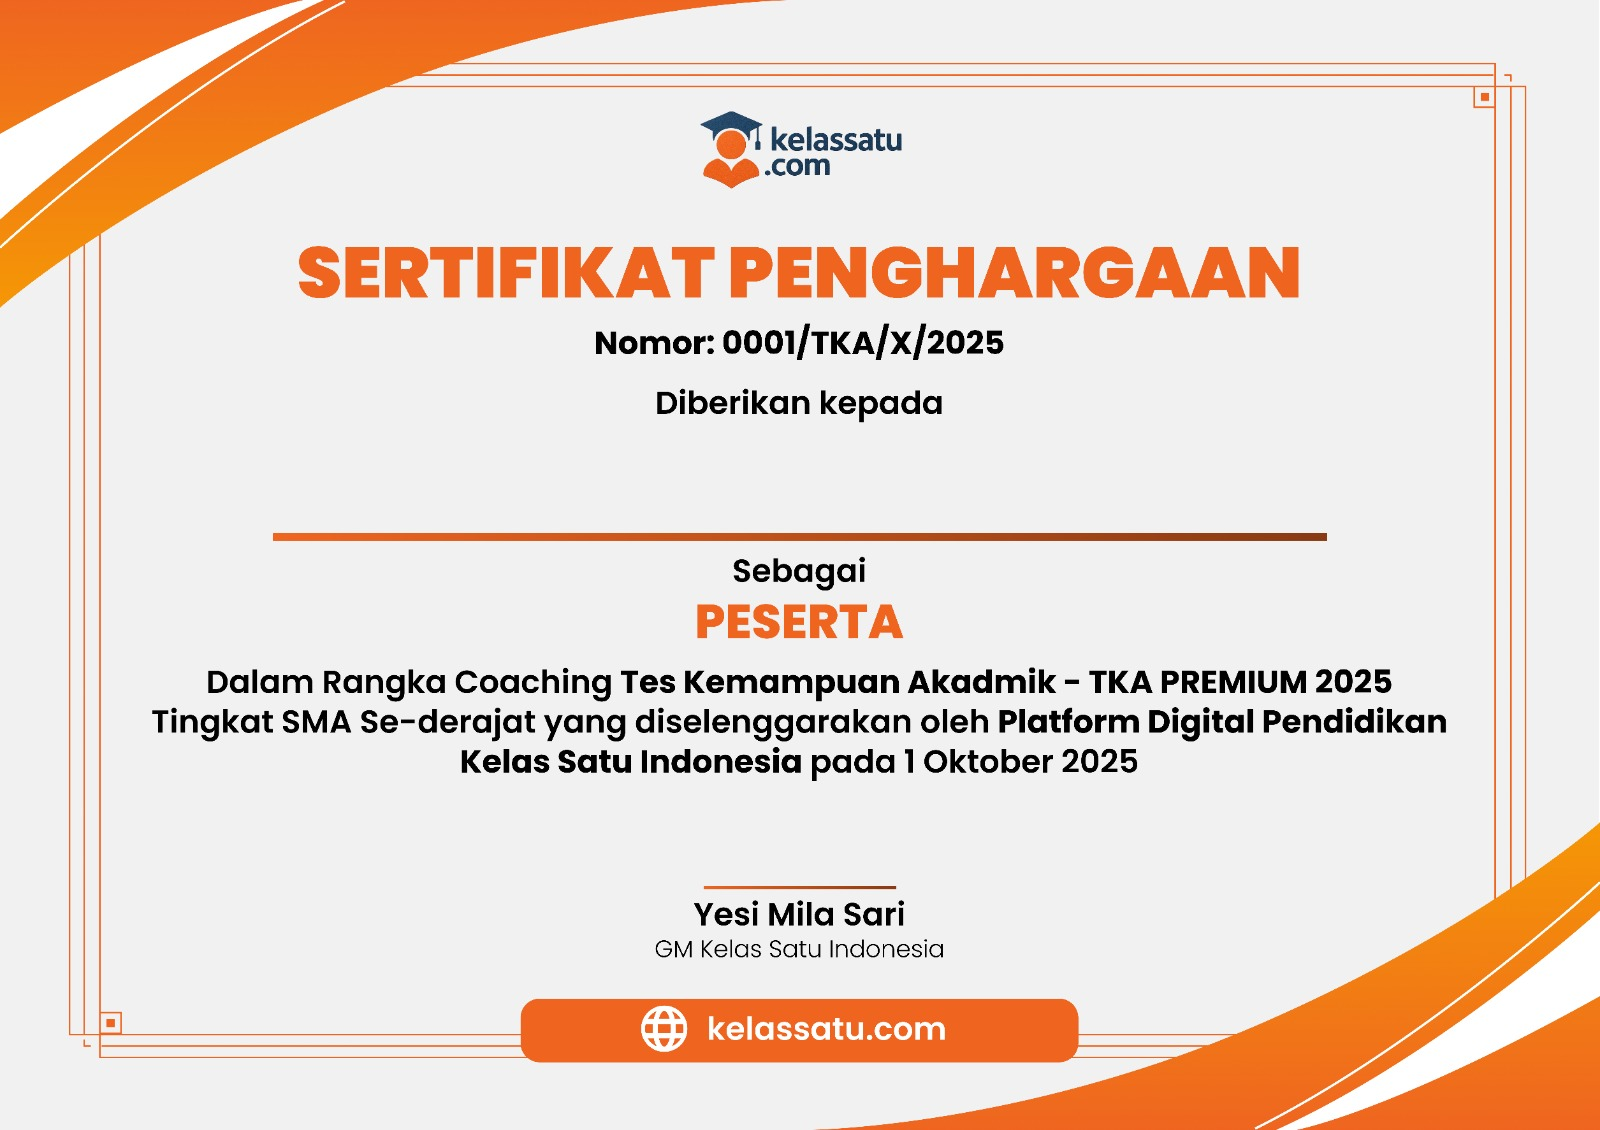
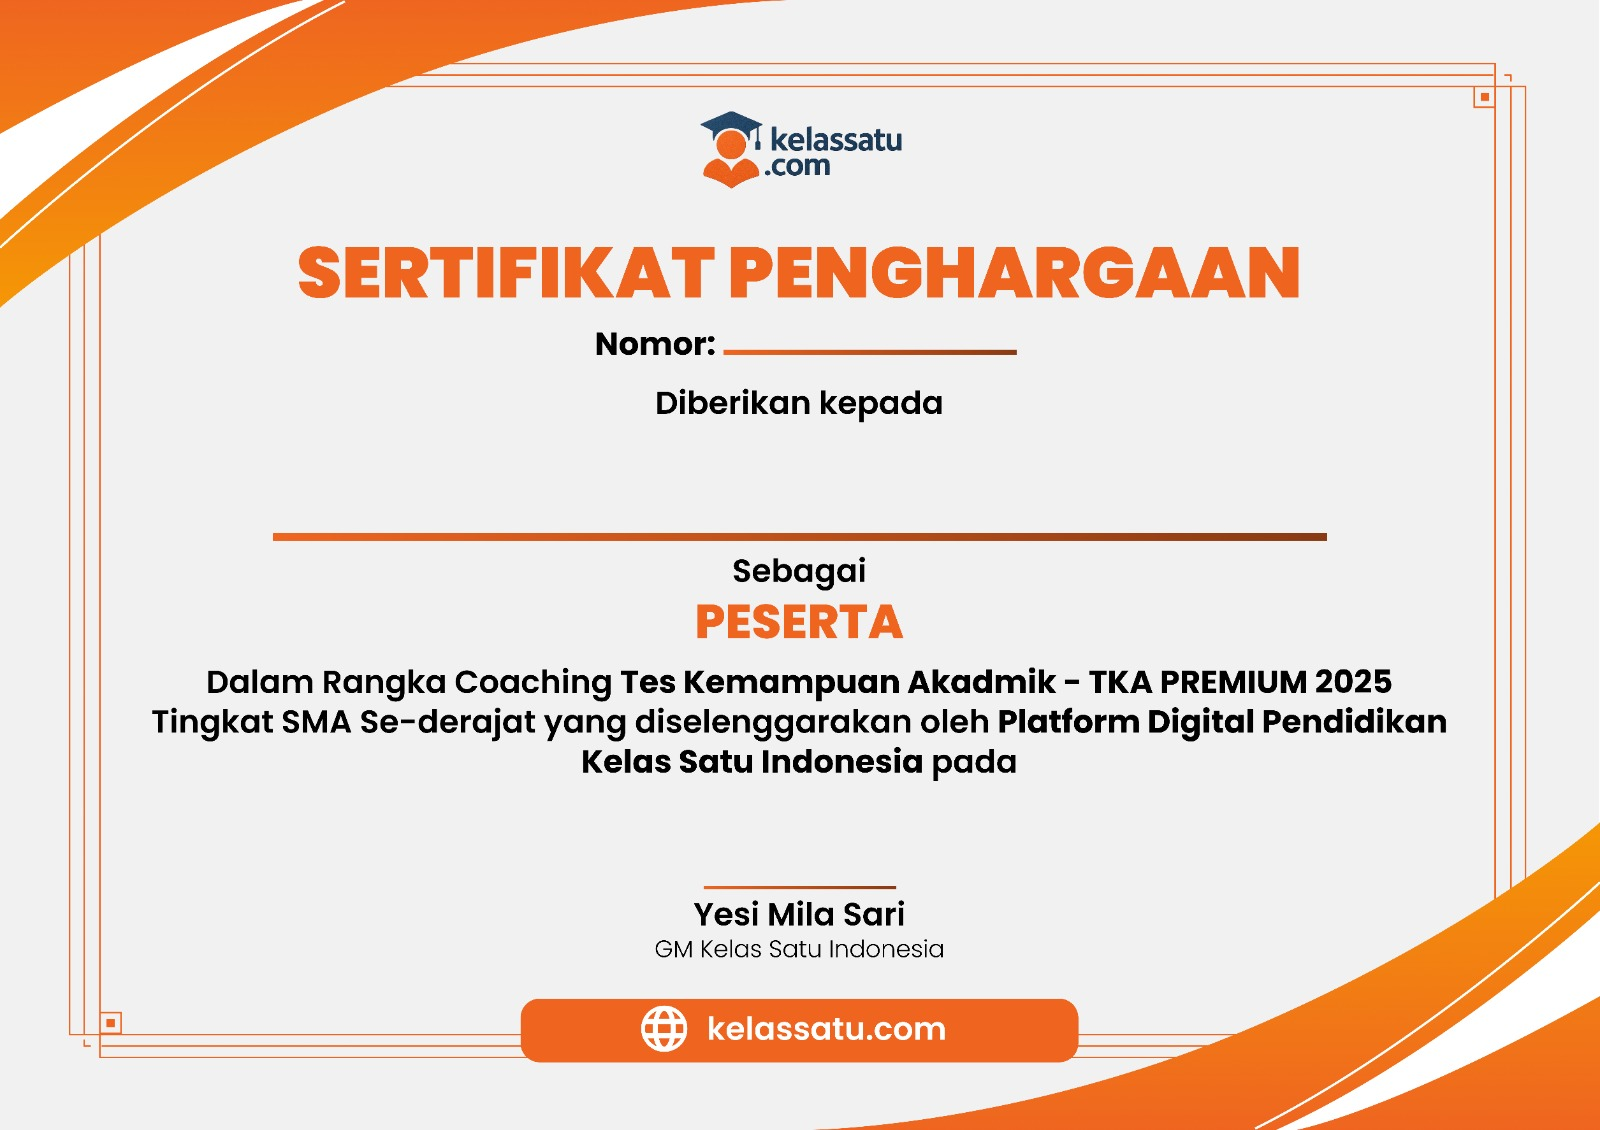
fitur

Changed region(s): [[0.2812, 0.6504, 0.7188, 0.6814], [0.4375, 0.2788, 0.625, 0.3407], [0.375, 0.2788, 0.4062, 0.3097]]

diff --git a/app/Http/Controllers/CertificateController.php b/app/Http/Controllers/CertificateController.php
@@ -12,16 +12,44 @@ use Barryvdh\DomPDF\Facade\Pdf;
 
 class CertificateController extends Controller
 {
+    private function monthToRoman($month)
+    {
+        $romans = [
+            1 => 'I',
+            2 => 'II',
+            3 => 'III',
+            4 => 'IV',
+            5 => 'V',
+            6 => 'VI',
+            7 => 'VII',
+            8 => 'VIII',
+            9 => 'IX',
+            10 => 'X',
+            11 => 'XI',
+            12 => 'XII'
+        ];
+        return $romans[$month] ?? '';
+    }
+
+    private function generateCertificateNumber($userId)
+    {
+        $nomorUrut = str_pad($userId, 3, '0', STR_PAD_LEFT);
+        $kode = 'TKA'; // kode tetap
+        $bulanRomawi = $this->monthToRoman(date('n'));
+        $tahun = date('Y');
+
+        return "{$nomorUrut}/{$kode}/{$bulanRomawi}/{$tahun}";
+    }
+
     public function preview()
     {
         $user = Auth::user();
         $templatePath = public_path('image/template.JPG');
 
-        // Untuk Intervention Image v3 (Laravel 10+)
         $manager = new ImageManager(new Driver());
         $image = $manager->read($templatePath);
 
-        // Tambahkan nama user ke gambar
+        // Tambahkan nama user
         $image->text($user->name, 600, 400, function ($font) {
             $font->file(public_path('fonts/arial.ttf'));
             $font->size(48);
@@ -30,20 +58,18 @@ class CertificateController extends Controller
             $font->valign('middle');
         });
 
+        // Tambahkan nomor sertifikat
+        $certificateNumber = $this->generateCertificateNumber($user->id);
+        $image->text($certificateNumber, 600, 470, function ($font) {
+            $font->file(public_path('fonts/arial.ttf'));
+            $font->size(32);
+            $font->color('#000000');
+            $font->align('center');
+            $font->valign('middle');
+        });
+
         return response($image->toJpeg(), 200)
             ->header('Content-Type', 'image/jpeg');
-    }
-
-    public function download(Request $request)
-    {
-        $user = Auth::user();
-        $format = $request->get('format', 'pdf');
-
-        if ($format === 'image') {
-            return $this->downloadImage($user);
-        }
-
-        return $this->downloadPDF($user);
     }
 
     private function downloadImage($user)
@@ -55,17 +81,29 @@ class CertificateController extends Controller
         }
 
         try {
-            // Inisialisasi ImageManager langsung di method
             $imageManager = new ImageManager(new Driver());
             $image = $imageManager->read($templatePath);
 
-            // Tambahkan nama user ke gambar
+            // Tambahkan nama user
             $image->text($user->name, 800, 500, function ($font) {
                 $fontPath = public_path('fonts/arialbd.ttf');
                 if (file_exists($fontPath)) {
                     $font->filename($fontPath);
                 }
                 $font->size(50);
+                $font->color('#000000');
+                $font->align('center');
+                $font->valign('middle');
+            });
+
+            // Tambahkan nomor sertifikat
+            $certificateNumber = $this->generateCertificateNumber($user->id);
+            $image->text($certificateNumber, 850, 335, function ($font) {
+                $fontPath = public_path('fonts/arialbd.ttf');
+                if (file_exists($fontPath)) {
+                    $font->filename($fontPath);
+                }
+                $font->size(30);
                 $font->color('#000000');
                 $font->align('center');
                 $font->valign('middle');
@@ -85,6 +123,20 @@ class CertificateController extends Controller
         }
     }
 
+    public function download(Request $request)
+    {
+        $user = Auth::user();
+        $format = $request->get('format', 'pdf');
+
+        if ($format === 'image') {
+            return $this->downloadImage($user);
+        }
+
+        return $this->downloadPDF($user);
+    }
+
+
+
     private function downloadPDF($user)
     {
         $templatePath = public_path('image/template.JPG');
@@ -92,10 +144,13 @@ class CertificateController extends Controller
         list($width, $height) = getimagesize($templatePath);
         $orientation = $width > $height ? 'landscape' : 'portrait';
 
+        // Generate nomor sertifikat
+        $certificateNumber = $this->generateCertificateNumber($user->id);
+
         $data = [
             'user' => $user,
             'template' => $templatePath,
-            'certificateId' => 'CERT-' . $user->id . '-' . time(),
+            'certificateNumber' => $certificateNumber,
         ];
 
         $pdf = PDF::loadView('kelas_saya.pdf', $data);
@@ -103,7 +158,7 @@ class CertificateController extends Controller
         $pdf->setOption('dpi', 150);
         $pdf->setOption('defaultFont', 'Arial');
 
-        // Pastikan tidak ada margin yang menyebabkan konten terpotong
+        // Hilangkan margin biar tidak terpotong
         $pdf->setOption('margin-top', 0);
         $pdf->setOption('margin-right', 0);
         $pdf->setOption('margin-bottom', 0);

diff --git a/resources/views/welcome.blade.php b/resources/views/welcome.blade.php
@@ -6,31 +6,34 @@
         class="relative gradient-bg min-h-[70vh] sm:min-h-[75vh] md:min-h-[75vh] lg:min-h-[80vh] flex items-center overflow-hidden">
 
         <div class="absolute inset-0 overflow-hidden">
-            <div class="slider-container relative w-full h-full">
-                <!-- Slide 1 -->
-                <div class="slide absolute inset-0 transition-opacity duration-1000 opacity-100">
-                    <img src="{{ $landingPage->hero_image_1
-                        ? asset('storage/' . $landingPage->hero_image_1)
-                        : 'https://images.unsplash.com/photo-1522202176988-66273c2fd55f?ixlib=rb-4.0.3&auto=format&fit=crop&w=1920&q=80' }}"
-                        alt="Students learning" class="w-full h-full object-cover">
-                    <!-- Overlay Orange Transparan -->
-                    <div class="absolute inset-0 bg-orange-500 bg-opacity-40"></div>
-                </div>
-
-                <!-- Slide 2 -->
-                <div class="slide absolute inset-0 transition-opacity duration-1000 opacity-0">
-                    <img src="{{ asset('storage/' . $landingPage->hero_image_2) ?? 'https://images.unsplash.com/photo-1434030216411-0b793f4b4173?ixlib=rb-4.0.3&auto=format&fit=crop&w=1920&q=80' }}"
-                        alt="Online learning" class="w-full h-full object-cover">
-                    <div class="absolute inset-0 bg-orange-500 bg-opacity-40"></div>
-                </div>
-
-                <!-- Slide 3 -->
-                <div class="slide absolute inset-0 transition-opacity duration-1000 opacity-0">
-                    <img src="{{ asset('storage/' . $landingPage->hero_image_3) ?? 'https://images.unsplash.com/photo-1553028826-f4804a6dba3b?ixlib=rb-4.0.3&auto=format&fit=crop&w=1920&q=80' }}"
-                        alt="Technology learning" class="w-full h-full object-cover">
-                    <div class="absolute inset-0 bg-orange-500 bg-opacity-40"></div>
-                </div>
+            <!-- Slide 1 -->
+            <div class="slide absolute inset-0 transition-opacity duration-1000 opacity-100">
+                <img src="{{ $landingPage->hero_image_1
+                    ? asset('storage/' . $landingPage->hero_image_1)
+                    : 'https://images.unsplash.com/photo-1522202176988-66273c2fd55f?ixlib=rb-4.0.3&auto=format&fit=crop&w=1920&q=80' }}"
+                    alt="Students learning" class="w-full h-full object-cover object-top">
+                <!-- Overlay Orange Transparan -->
+                <div class="absolute inset-0 bg-orange-500 bg-opacity-40"></div>
             </div>
+
+            <!-- Slide 2 -->
+            <div class="slide absolute inset-0 transition-opacity duration-1000 opacity-0">
+                <img src="{{ $landingPage->hero_image_2
+                    ? asset('storage/' . $landingPage->hero_image_2)
+                    : 'https://images.unsplash.com/photo-1434030216411-0b793f4b4173?ixlib=rb-4.0.3&auto=format&fit=crop&w=1920&q=80' }}"
+                    alt="Online learning" class="w-full h-full object-cover object-top">
+                <div class="absolute inset-0 bg-orange-500 bg-opacity-40"></div>
+            </div>
+
+            <!-- Slide 3 -->
+            <div class="slide absolute inset-0 transition-opacity duration-1000 opacity-0">
+                <img src="{{ $landingPage->hero_image_3
+                    ? asset('storage/' . $landingPage->hero_image_3)
+                    : 'https://images.unsplash.com/photo-1553028826-f4804a6dba3b?ixlib=rb-4.0.3&auto=format&fit=crop&w=1920&q=80' }}"
+                    alt="Technology learning" class="w-full h-full object-cover object-top">
+                <div class="absolute inset-0 bg-orange-500 bg-opacity-40"></div>
+            </div>
+
         </div>
 
         <!-- Overlay Orange Transparan -->

diff --git a/resources/views/kelas_saya/pdf.blade.php b/resources/views/kelas_saya/pdf.blade.php
@@ -16,8 +16,7 @@
             position: relative;
             width: 100%;
             height: 842px;
-            /* A4 portrait height in px at 72dpi */
-            /* Jika landscape, gunakan 595px height */
+            /* A4 portrait */
         }
 
         .certificate-background {
@@ -28,7 +27,6 @@
             height: 100%;
             background-image: url("{{ $template }}");
             background-size: contain;
-            /* cover agar sesuai halaman */
             background-repeat: no-repeat;
             background-position: center;
         }
@@ -36,7 +34,6 @@
         .certificate-name {
             position: absolute;
             top: 45%;
-            /* vertical center */
             left: 50%;
             transform: translate(-50%, -50%);
             font-size: 36px;
@@ -46,33 +43,25 @@
             width: 80%;
         }
 
-        .certificate-date {
+        .certificate-number {
             position: absolute;
-            bottom: 10%;
-            left: 50%;
+            top: 28%;
+            /* sedikit di bawah nama */
+            left: 52%;
             transform: translateX(-50%);
-            font-size: 16px;
+            font-size: 20px;
+            font-weight: bold;
             color: #000000;
             text-align: center;
         }
-
-        .certificate-id {
-            position: absolute;
-            bottom: 5%;
-            left: 50%;
-            transform: translateX(-50%);
-            font-size: 12px;
-            color: #666666;
-            text-align: center;
-        }
     </style>
-
 </head>
 
 <body>
     <div class="certificate-container">
         <div class="certificate-background"></div>
         <div class="certificate-name">{{ $user->name }}</div>
+        <div class="certificate-number">{{ $certificateNumber }}</div>
     </div>
 </body>
 
